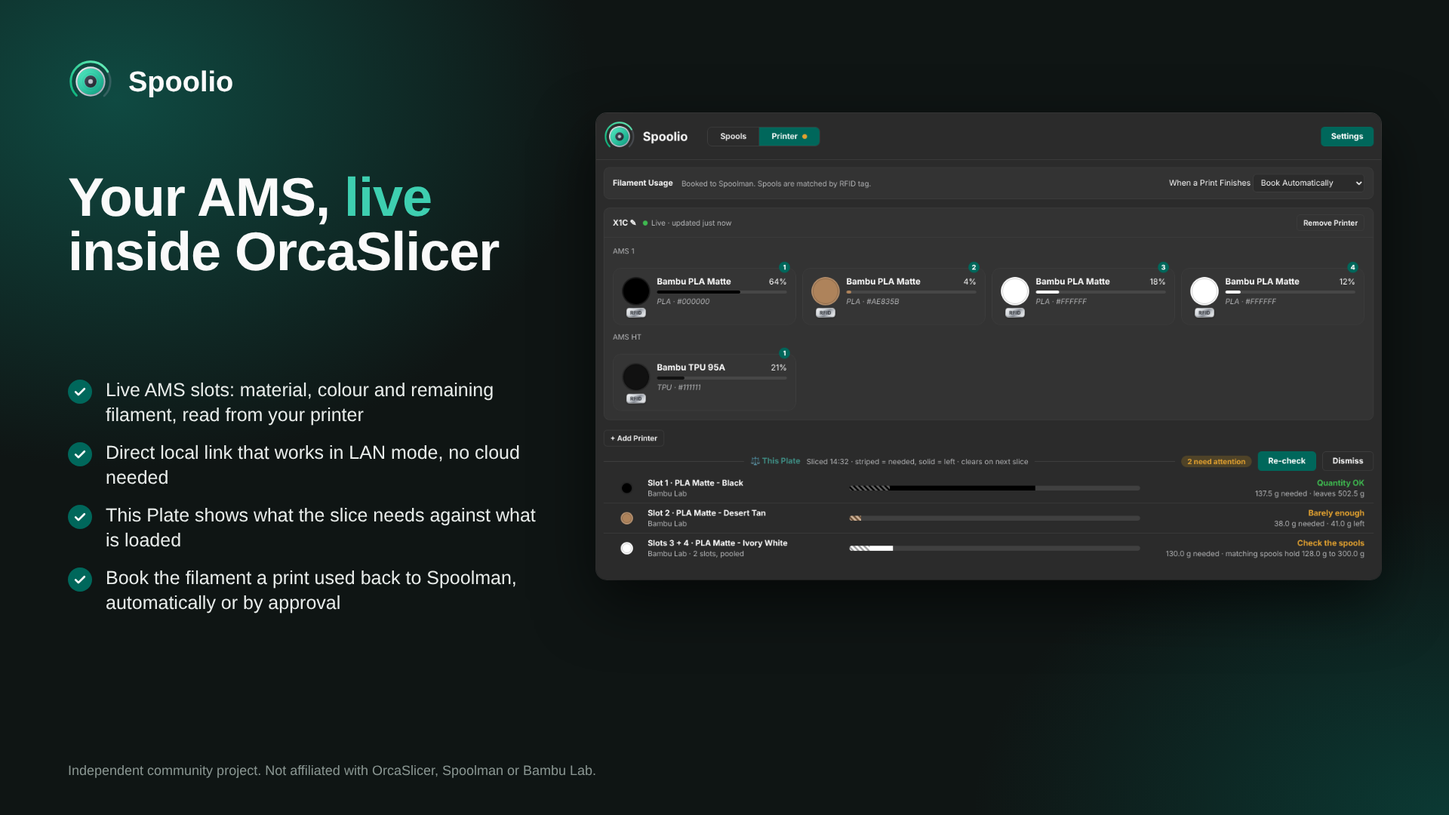
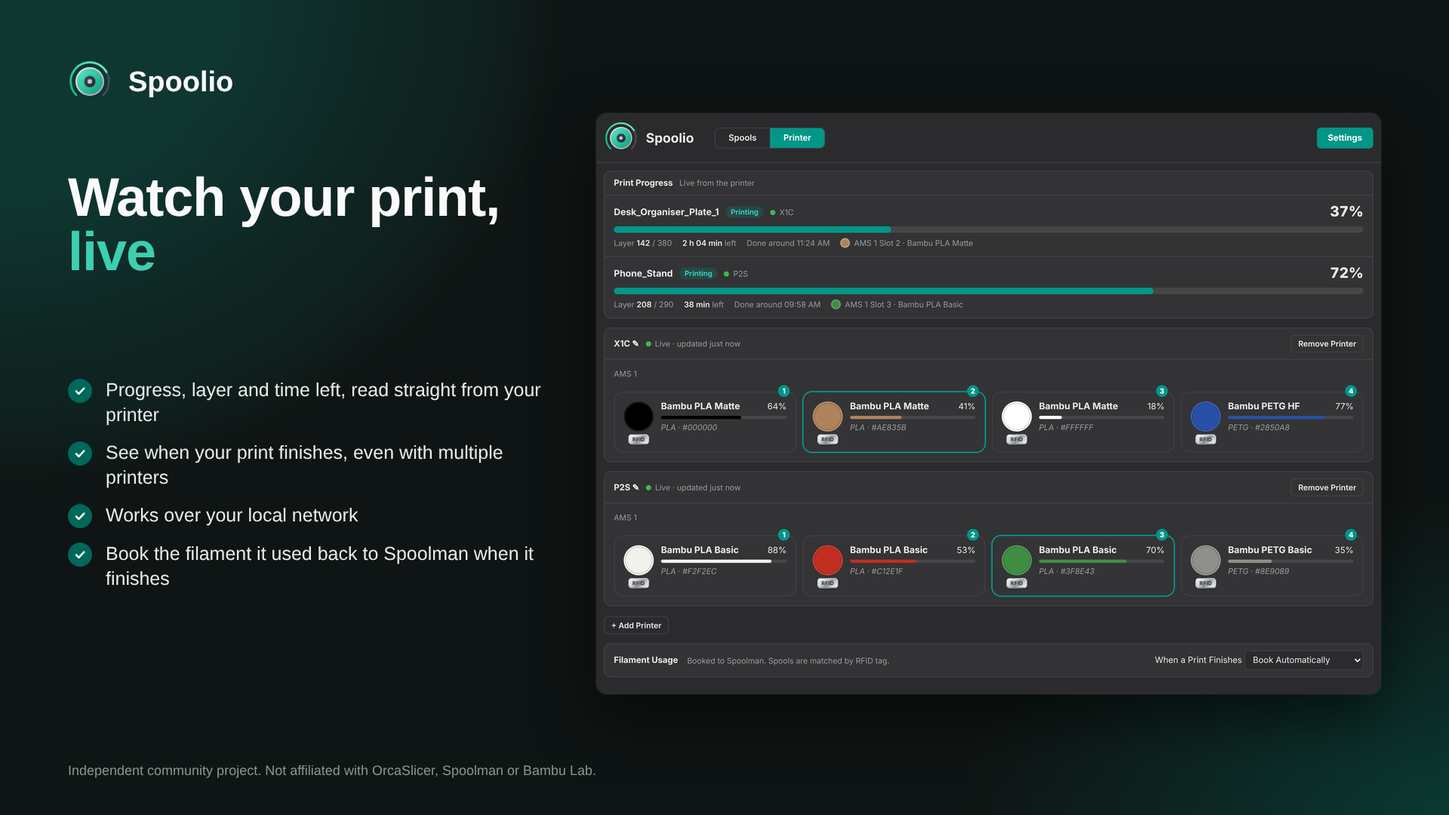
Spoolio v.0.7.0 updates

diff --git a/plugin/spoolio/spoolio_any.py b/plugin/spoolio/spoolio_any.py
@@ -6,7 +6,7 @@
 # name = "Spoolio"
 # description = "A Bambu Lab inspired inventory management overview for OrcaSlicer"
 # author = "Dan J Moore"
-# version = "0.6.0"
+# version = "0.7.0"
 # ///
 
 import base64
@@ -44,7 +44,7 @@ except (ImportError, AttributeError):
 _SLICING = hasattr(getattr(orca, "slicing", None), "SlicingPipelineCapabilityBase")
 
 PLUGIN_NAME = "Spoolio"
-PLUGIN_VERSION = "0.6.0"
+PLUGIN_VERSION = "0.7.0"
 # Stamped per operating system by scripts/build.py.
 BUILD_TARGET = "any"
 

diff --git a/CHANGELOG.md b/CHANGELOG.md
@@ -1,21 +1,35 @@
 # Changelog
+## [0.7.0] - 2026-10-16
+
+The Printer tab now includes print progress for each linked printer. The Settings page has been tidied up and follows the card theme throughout.  A new section for the Printer tab has been added.
+
+### Added
+- Print progress. This uses the connected printer(s) own MQTT messaging to draw a live progress bar. This is particularly useful for multiple printers that are connected on the same LAN; and doesn't require an equal number of OrcaSlicer instances for each sliced print to monitor the progress via the Device page.
+
+- Configure Printer in Settings. If you don't have multiple printers then the print progress can be turned off if you wish. The print progress card can be further customised to show estimated finish time, slot in use and whether to show the printer if it's in an idle state.
+
+### Changed
+- The order of the Print tab has been chaned.  Print Proress is now shown first, then your AMS system, followed by "This Plate". The filament usage booking now sits underneath this, as it made more logical sense to be here as material is booked after the plate has finished printing.
+
+- Settings page is now laid out in a card style format.  Each section is card with either a live preview or a guide. For narrow window device e.g. laptop, the two halves of each card stack.  Some notes have been removed, as some settings are quite self explantatory e.g. weights as grams or percentage of spools original weight.
+
 ## [0.6.0] - 2026-10-12
 
 Filament usage booking now reads what was actually printed straight from the printer, rather than relying on your sliced G-code, and it no longer loses a print if the connection drops or OrcaSlicer is closed part way through. Multi-colour filaments also finally show their colours on the spool cards.
 
 ### Added
-
 - Usage booking from the printer's job file (Spoolman source, with a Live Link). When a print starts, Spoolio downloads the job's `.3mf` from the printer over your local network (FTPS) and books the grams it lists for each slot to the matching spool in Spoolman. This means the amounts match the plate that is actually printing, even if it was sliced or sent from somewhere else. If the job file can't be read, Spoolio falls back to the grams from your sliced G-code as before.
+
 - Booking survives link drops and restarts. The print Spoolio is tracking is saved on your computer, so if the Live Link drops or OrcaSlicer is restarted mid print, Spoolio picks it back up when it reconnects.
+
 - Late cards for missed prints. If a print finishes while Spoolio wasn't connected, it shows a card for that print with a note to check the grams before booking. Late cards are never booked automatically, even with *Book Automatically* on.
 
 ### Changed
-
 - Multi-colour spool swatches. Spools with more than one colour in Spoolman used to show a grey swatch. The circle now shows the colours, in segments for coaxial filaments and as a smooth gradient for longitudinal ones, on both the spool cards and the `+ Assign Spool` list. The ring and progress bar use one solid colour (the first colour of the spool) so they stay easy to read.
 
 ### Known limitations
-
 - Job-file booking needs the printer on the same network, the same as Live Link. If Spoolio can't reach it or find the job file, the grams from your sliced G-code are used instead.
+
 - The filament check and This Plate panel still match spools on their main colour only, so multi-colour spools may not match a slicer slot automatically.
 
 ## [0.5.0] - 2026-10-09
@@ -23,86 +37,105 @@ Filament usage booking now reads what was actually printed straight from the pri
 I'm excited to say that Spoolio can now read your spools from Bambu Cloud as well as Spoolman! (because variety is the spice of life) and it can also book the filament a print used back to Spoolman for a truly local live filament tracking solution.  This sadly cannot be done via Bambu Cloud due to what their API exposes, see more on the limitations section below.
 
 ### Added
+- Bambu Cloud as a source. Choose `Spoolman` or `Bambu Cloud` under Choose Your Source in Settings. With Bambu Cloud, your Bambu filament library shows on the same spool cards, and the filament check and `This Plate` panel use it too.
 
-- **Bambu Cloud as a source.** Choose `Spoolman` or `Bambu Cloud` under Choose Your Source in Settings. With Bambu Cloud, your Bambu filament library shows on the same spool cards, and the filament check and This Plate panel use it too.
-- **Sign in to Bambu Cloud inside Spoolio**, with no other plugin needed. Enter your Bambu email and password and pick Global or China. Bambu 2FA will be required (emailed, or an authenticator app) **<ins>Spoolio never stores your password</ins>**, only the sign-in token that Bambu returns, which can be removed with a quick Sign out. The Test Connection checks that you are online and that Bambu still accepts your sign-in. This uses Bambu's unofficial cloud service, so it is marked experimental.
-- **A Printer tab** beside Spools, with a card for each of your printers. The This Plate panel now sits underneath, and the tab shows an amber dot when the plate needs attention.
-- **Set up your printers by hand or automatically** Add a printer, then add an AMS (4 slots), an AMS HT (1 slot) and an external spool. Several AMS units are numbered AMS 1, AMS 2 and so on. Every slot starts empty, and `+ Assign Spool` opens a searchable list of your spools. A spool can only sit in one slot, so once it is assigned it is hidden from the list, while two spools of the same filament are listed separately. The cards are the same as on the Spools tab, with a ✕ to clear a slot. This is stored in Spoolio only and works with either source, it's _only_ a representative view.
-- **Live AMS.** The Printer tab can read what a printer reports for its AMS, AMS HT and external spool (material, colour and remaining percentage). Press **Live Link** on a printer and enter it's IP address, serial number (optional) and access code to read it directly over your local network, which works in LAN mode with either Bambu or Spoolman. The access code is kept in its own private file on your computer. Spoolio only connects while the Printer tab is open, or while usage booking is on.
-- **Bambu Cloud slots.** With a Bambu Cloud connection, the spools within your library linked to a printer slot also show on the Printer tab. This can lag behind what is physically loaded, so the manual setup option is there to correct it.
-- **Book filament usage to Spoolman (Spoolman source, with a Live Link).** When a print finishes, Spoolio works out which spool was in each slot from its RFID tag (matched against the `tag` extra field on the spool in Spoolman, the long serial Bambu uses for RFID detection if using Bambu filament, falling back to the spool's RFID tags and other extra fields) and books the grams from the sliced G-code to that spool in Spoolman. Choose *Ask Me Before Booking*, *Book Automatically* or *Do Not Track* under *When a Print Finishes*. Slots whose spool can't be identified are always booked by hand, and so are prints that were cancelled, where the grams are estimated from the progress. Nothing is booked twice.
-- **Tabs pinned to the header.** Due to the changes, I've introduced two new tabs, aptly titled Spools and Printer.
+- Sign in to Bambu Cloud inside Spoolio, with no other plugin needed. Enter your Bambu email and password and pick Global or China. Bambu 2FA will be required (emailed, or an authenticator app) ***<ins>Spoolio never stores your password</ins>***, only the sign-in token that Bambu returns, which can be removed with a quick Sign out. The Test Connection checks that you are online and that Bambu still accepts your sign-in. This uses Bambu's unofficial cloud service, so it is marked experimental.
+
+- A Printer tab beside Spools, with a card for each of your printers. The `This Plate` panel now sits underneath, and the tab shows an amber dot when the plate needs attention.
+
+- Set up your printers by hand or automatically. Add a printer, then add an AMS (4 slots), an AMS HT (1 slot) and an external spool. Several AMS units are numbered AMS 1, AMS 2 and so on. Every slot starts empty, and `+ Assign Spool` opens a searchable list of your spools. A spool can only sit in one slot, so once it is assigned it is hidden from the list, while two spools of the same filament are listed separately. The cards are the same as on the Spools tab, with a ✕ to clear a slot. This is stored in Spoolio only and works with either source, it's _only_ a representative view.
+
+- Live AMS. The Printer tab can read what a printer reports for its connected AMS and external spool (material, colour and remaining percentage). Press **Live Link** on a printer and enter it's IP address, serial number (optional) and access code to read it directly over your local network, which works in LAN mode with either Bambu or Spoolman. The access code is kept in its own private file on your computer. Spoolio only connects while the Printer tab is open, or while usage booking is on.
+    - With a Bambu Cloud connection, the spools within your library linked to a printer slot also show on the Printer tab. This can lag behind what is physically loaded, so the manual setup option is there to correct it.
+
+- Book filament usage to Spoolman (Spoolman source, with a Live Link). When a print finishes, Spoolio works out which spool was in each slot from its RFID tag (matched against the `tag` extra field on the spool in Spoolman, the long serial Bambu uses for RFID detection if using Bambu filament, falling back to the spool's RFID tags and other extra fields) and books the grams from the sliced G-code to that spool in Spoolman. Choose *Ask Me Before Booking*, *Book Automatically* or *Do Not Track* under *When a Print Finishes*. Slots whose spool can't be identified are always booked by hand, and so are prints that were cancelled, where the grams are estimated from the progress. Nothing is booked twice.
+
+Due to the changes, I've introduced two new tabs, aptly titled Spools and Printer.
 
 ### Known limitations
+- ***Bambu Cloud is unofficial and experimental.*** Bambu can change it without notice, and your sign-in token expires after 90 days, so you will be asked to asked to sign in again after this time.
+    - ***Bambu Cloud is read only.*** Spoolio can only read your Bambu filament library and never write to it.
+    - ***No live AMS through Bambu Cloud.*** A printer in LAN mode isn't bound to your account, so the cloud doesn't list it. Use Live Link for live slots.
+    - <ins>Bambu Cloud slot view can lag behind what is physically loaded, so treat it as representative only.</ins>
 
-- **Bambu Cloud is read only.** Spoolio can only read your Bambu filament library and never write to it.
-- **Filament usage booking is Spoolman only.** With Bambu Cloud as the source the booking panel is off, because there is no way to write used weight back to the Bambu library. Whether Bambu tracks remaining weight itself for RFID spools is unverified if connected via the Cloud after a print - I'm assuming not if you have no printer connected to your Bambu account via the cloud.
-- **No live AMS through Bambu Cloud.** A printer in LAN mode isn't bound to your account, so the cloud doesn't list it. Use Live Link for live slots.
-- **Bambu Cloud slot view can lag** behind what is physically loaded, so treat it as representative only.
-- **Bambu Cloud is unofficial and experimental.** Bambu can change it without notice, and your sign-in token expires after 90 days, so you will be asked to asked to sign in again after this time.
+- ***Filament usage booking is Spoolman only***. With Bambu Cloud as the source the booking panel is off, because there is no way to write used weight back to the Bambu library. Whether Bambu tracks remaining weight itself for RFID spools is unverified if connected via the Cloud after a print - I'm assuming not if you have no printer connected to your Bambu account via the cloud.
+
 - **Live Link** needs the printer on the same network with LAN mode on, and only connects while the Printer tab is open or usage booking is on.
+
 - **Booking assumes slicer slot order** follows the printer's slots (AMS 1 slots 1 to 4, then the next AMS). Slicer weights are estimates and cancelled prints are estimated from progress, so booked amounts can differ slightly.
 
 ### Changed
+- RFID badge on spool cards now reads the spool's `tag` extra field when present, failing back to the official Spoolman `tag` field if it cannot reconcile.  Required for the automatic consumption booking via Spoolman.
 
-- **RFID badge** on spool cards now reads the spool's `tag` extra field when present, failing back to the official `tag` field if it cannot reconcile.  Required for the automatic consumption booking via Spoolman.
-- **Settings:** the server section now has a `Choose Your Source` with an updated icon.
-- **Messages name your source.** Spool list errors and the filament check say Bambu Cloud or Spoolman depending on what you use, and a missing or expired Bambu sign-in tells you to sign in from Settings.
+- Settings: the server section now has a `Choose Your Source` with an updated icon.
+
+- Spool list error messages and the filament check say Bambu Cloud or Spoolman depending on what you use, and a missing or expired Bambu sign-in tells you to sign in from Settings.
 
 ## [0.4.0] - 2026-10-08
 
 ### Added
+- `This Plate` panel on the spool list, shown after each slice (when filament check notifications are on). Each filament the plate uses gets a row with its colour, a progress bar showing what the plate needs against what the spool has left, and a result: Quantity OK, Barely enough, Not enough, Check the spool(s) or Not checked. Re-check runs it again against fresh Spoolman data, Dismiss hides it, and it clears itself on the next slice. 
+    - `On this plate chip` on the matching spool cards, showing which slot or slots use that spool.
+    - `Sort by: On this plate`, which becomes available while the panel is showing.
 
-- **This plate panel** on the spool list, shown after each slice (when filament check notifications are on). Each filament the plate uses gets a row with its colour, a progress bar showing what the plate needs against what the spool has left, and a result: Quantity OK, Barely enough, Not enough, Check the spool(s) or Not checked. Re-check runs it again against fresh Spoolman data, Dismiss hides it, and it clears itself on the next slice. A divider separates it from the rest of your spools.
-- **On this plate chip** on the matching spool cards, showing which slot or slots use that spool.
-- **Duplicate marker** on cards where you hold more than one spool of the same filament, e.g. `x2 · 300 g together`.
-- **Sort by On this plate**, which becomes available while the panel is showing.
-- **Spool weight display** setting to show the remaining weight on the spool cards and group rows as grams, a percentage or both (the default), with a live sample card on the Settings page. The This plate panel always uses grams.
-- **Low-stock weight colours:** below your low-stock threshold the remaining weight turns amber, shading to red as the spool runs out (fully red at 20% of the threshold, so at 10 g with a 50 g threshold).
-- **Show cart button** setting on the Settings page for the reorder cart.
+- Duplicate marker on cards where you hold more than one spool of the same filament, e.g. `x2 · 300 g together`.
+
+- Spool weight display setting to show the remaining weight on the spool cards and group rows as grams, a percentage or both (the default), with a live sample card on the Settings page. The `This Plate` panel always uses grams.
+
+- Low-stock weight colours: below your low-stock threshold the remaining weight turns amber, shading to red as the spool runs out (fully red at 20% of the threshold, so at 10 g with a 50 g threshold for example).
+
+- Show cart button setting on the Settings page for the reorder cart.
 
 ### Changed
+- The reorder cart button is now optional and off by default, because the weight colour now flags low stock. Tick `Show a cart button for reordering low-stock spools` in Settings to bring it back.
 
-- **The reorder cart button is now optional and off by default**, because the weight colour now flags low stock. Tick `Show a cart button for reordering low-stock spools` in Settings to bring it back.
-- **Filters, sort and grouping are collapsible** behind a Filters button, so the list looks cleaner.
-- **Matching buttons:** Re-check, Dismiss and Filters are now the same size as the Settings button.
-- **Settings page rearranged:** Getting Started and Filament Reorder Preview now sit on the left, with the Spoolman server and reorder settings beside them. Spool Weights is a new section, and the tick boxes are all at the top of their sections.
+- Filters, sort and grouping are collapsible behind a Filters button, so the list looks cleaner.
+
+- Settings page rearranged: Getting Started and Filament Reorder Preview now sit on the left, with the Spoolman server and reorder settings beside them. Spool Weights is a new section.
 
 ### Behind the scenes code clean up
-
 - Shortened variable and function names across the plugin and tidied the comments and docstrings, with no change in behaviour.
+
 - The filament check and This plate panel share one code path, so the notification and the panel always agree.
 
 ## [0.3.0] - 2026-10-06
 
 ### Added
+- The Settings page now as filament check notification and a safety margin. Currently the safety margin defaults at 10% e.g. 20g of filament required, spool has 22g so is within the 10% but it can be adjusted to user preference, see updated README for a full explanation.
 
-- **Filament check settings** The Settings page now as filament check notification and a safety margin. Currently the safety margin defaults at 10% e.g. 20g of filament required, spool has 22g so is within the 10% but it can be adjusted to user preference, see updated README for a full explanation.
-- **Filament check at slicing** after each slice, Spoolio compares the filament the plate needs with what is left on your matching spools and shows a notification in OrcaSlicer. A short-lived one when there's enough, and a persistent message that stays until you dismiss it when there may not be enough filament loaded. Slots holding the same filament are counted together. Switch on Spoolio Filament Check in your process settings, under `Others > Slicing Pipeline Plugin`, to use it.
+- Filament check at slicing, Spoolio compares the filament the plate needs with what is left on your matching spools and shows a notification in OrcaSlicer. A short-lived one when there's enough, and a persistent message that stays until you dismiss it when there may not be enough filament loaded. Slots holding the same filament are counted together. Switch on Spoolio Filament Check in your process settings, under `Others > Slicing Pipeline Plugin`, to use it.
 
 ## [0.2.0] - 2026-10-01
 
 Spoolio now has its own tab in OrcaSlicer's top bar, and is built separately for all OS.
 
 ### Added
-- **A Spoolio tab** Spoolio has migrated to OrcaSlicer's Pages window from the previous floating window method, and still falls back to the floating window on builds without Pages support.
-- **Settings inside the tab** as a second page instead of a separate window. Save & Close or Cancel returns to the spool list, and Settings still opens first on first run.
-- **Filament Reorder Preview** on the Settings page, showing which spools would get a reorder cart at the low-stock level you type in.
-- **A Diagnostics section** with the plugin version, a Check for updates link and the path of the new log file (`spoolio.log`) to attach to bug reports, plus a **feedback button** on the Settings page.
-- **A fixed header** that stays in place when you switch between the spool list and Settings.
-- **Builds for every platform:** Windows, Linux and macOS, each for x86_64 and arm64, published as one file per system (`spoolio_win_x86_64.py`, `spoolio_macosx_arm64.py` and so on).
+- Spoolio has migrated to OrcaSlicer's Pages window from the previous floating window method, and still falls back to the floating window on builds without Pages support.
+
+- `Settings` inside the tab as a second page instead of a separate window. `Save & Close` or `Cancel` returns to the spool list, and Settings still opens first on first run.
+
+- Filament Reorder Preview on the Settings page, showing which spools would get a reorder cart at the low-stock level you type in.
+
+- A Diagnostics section with the plugin version, a Check for updates link and the path of the new log file (`spoolio.log`) to attach to bug reports, plus a feedback button on the Settings page.
+
+- Builds for every platform: Windows, Linux and macOS, each for x86_64 and arm64, published as one file per system (`spoolio_win_x86_64.py`, `spoolio_macosx_arm64.py` and so on).
 
 ### Changed
-- **Two-column Settings page**, with each setting beside its guide.
-- **A tidier Settings look.**
-- **Matching headers** on the spool list and Settings, with the same logo size and title colour.
-- **Larger remaining weight** on the spool cards.
+- Two-column Settings page, with each setting beside its guide.
+
+- A tidier Settings look.
+
+- Larger remaining weight on the spool cards.
+
+### Fixes
 - Network requests (spool refresh, connection test and update check) now run in the background, so OrcaSlicer no longer freezes while waiting on Spoolman.
+
 - If OrcaSlicer's data folder can't be found, settings and the log go to the operating system's standard config location instead of the plugin folder.
+
 - The reorder cart tells you when no web browser could be opened and shows the address to open yourself.
 
-### Fixed
 - Swiping left or right on a trackpad no longer takes you to a blank page.
+
 - Buttons and step titles on the Settings page now use the accent colour consistently.
 
 ## [0.1.0]

diff --git a/README.md b/README.md
@@ -12,15 +12,16 @@ Spoolio _(Spool Inventory Overview)_ is a Bambu Lab inspired filament inventory 
 
 ## Key Features
 - **Spool cards:** Showing colour, vendor, remaining weight, a progress bar in the spool's own colour and material / colour hex and diameter details.
-- **Two spool sources:** Your self-hosted Spoolman server, or your Bambu Cloud account.
-- **RFID:** Reads from the spool's `tag` extra field when present, otherwise from its official RFID tags (requires Spoolman v.0.27.0 or newer).
-- **Live Link:** Connect directly to a printer on your local network and see what the printer reports for each AMS slot, matched by RFID.
+- **Two sources:** Your self-hosted Spoolman server, or your Bambu Cloud account.
+- **RFID:** Reads from the spool's `tag` extra field when present, or Spoolman's own `tag` field (requires Spoolman v.0.27.0 or newer).
 - **Printer tab:** A card per printer showing what is loaded in each AMS and external spool. Custom build your own by adding printers and AMS units and assigning your spools to the slots, with either spool source.
-- **This Plate panel:** Shown after each slice on the Printer tab, with a progress bar for the estimated filament consumption, an **On This Plate** chip on the matching cards, and a marker where you hold several spools of one filament.
+- **Live Link:** Connect directly to printer(s) on your local network and see what the printer reports for each AMS slot, matched by RFID.
 - **Filament Consumption booking:** With Spoolman, after a print finishes Spoolio can book the filament consumed directly from the `.3mf` to the spool, matched by its RFID tag. Book it yourself or let Spoolio do it.
+
+## Other Features
 - **Filter, sort and group:** By material, manufacturer or location.
-- **Low-stock warning:** Spools under the user defined threshold have their remaining weight turn amber, shading to red as the spool runs out.
-- **Optional reorder button:** Switch on the cart icon in Settings and low-stock spools get a button that opens a web search for reordering (either by a user input Spoolman article no. or it defaults to the filament name).
+- **Low-stock warning:** Spools under the user defined threshold have their remaining weight colour graded as they get closer to empty.
+- **Reorder button:** Switch on the cart icon in `Settings` and low-stock spools get a button that opens a web search for reordering (either by a user input Spoolman article no. or it defaults to the filament name).
 - **Setup your way:** Customise and configure Spoolio how you want.  How cards look, what units you prefer, thresholds, printers and more.
 - Matches OrcaSlicer's **light and dark theming**.
 - Built for **Windows, macOS and Linux** (x86_64 and arm64).
@@ -79,7 +80,7 @@ OrcaSlicer asks before a plugin does anything sensitive. Expect a prompt the fir
 
 > [!TIP]
 > ### Printer Tab
-> The **Printer** tab sits beside **Spools** and shows a card for each of your printers. Click ***+ Add Printer***, then add an AMS (4 slots), an AMS HT (1 slot) or an external spool, you can create it to match your setup, and use ***+ Assign Spool*** to choose which of your spools is in each slot. This is stored in Spoolio only and nothing is changed in Spoolman or Bambu Cloud. With Bambu Cloud, spools your library has linked to a slot also show, but that can lag behind what is physically loaded.
+> The **Printer** tab sits beside **Spools** and shows a card for each of your printers. Click ***+ Add Printer***, then add an AMS or an external spool, you can create it to match your setup, and use ***+ Assign Spool*** to choose which of your spools is in each slot. This is stored in Spoolio only and nothing is changed in Spoolman or Bambu Cloud. With Bambu Cloud, spools your library has linked to a slot also show, but that can lag behind what is physically loaded.
 >
 > ### Live Link
 > To read a printer directly, press ***Live Link*** on its card and enter its IP address, its serial number (optional, but helps if you have several printers) and its access code, all found in the printer's network settings with LAN mode on. The slots then show what the printer reports and how long ago it was updated. Spoolio keeps the access code in a private file on your computer and only reads from the printer. Removing a printer also removes its Live Link.
@@ -92,18 +93,17 @@ OrcaSlicer asks before a plugin does anything sensitive. Expect a prompt the fir
 
 > [!IMPORTANT]
 > ### Bambu Cloud Limitations
+> - **Unofficial and experimental.** This uses Bambu's unofficial cloud service, which Bambu can change without notice. If it stops working, sign out and back in, if that still fails then please report it.
+  > - **Sign-in expires.** Spoolio keeps only the sign-in token, not your password, so when Bambu expires the token you'll be asked to sign in again from Settings.
 > - **Read only.** Spoolio can read your Bambu filament library but cannot write to it, so nothing you do in Spoolio changes your Bambu spools.
 > - **No usage booking.** Filament usage booking is only available with Spoolman. Spoolio has no way to write used weight back to the Bambu library, and I haven't verified whether Bambu tracks remaining weight itself for RFID spools.
 > - **No live AMS through the cloud.** A printer in LAN mode isn't bound to your account, so Bambu Cloud doesn't list it and sends no AMS data. Use ***Live Link*** (works with either source) for live slots, or assign spools by hand.
 > - **Slot view can lag.** The spools your library has linked to a slot are a representative view only and can differ from what is physically loaded.
-> - **Unofficial and experimental.** This uses Bambu's unofficial cloud service, which Bambu can change without notice. If it stops working, sign out and back in, if that still fails then please report it.
-> - **Sign-in expires.** Spoolio keeps only the sign-in token, not your password, so when Bambu expires the token you'll be asked to sign in again from Settings.
 > - **Printer tab setup is local.** Printers, AMS units and slot assignments you set up are stored in Spoolio on your computer, not in your Bambu account.
 >
 > ### Live Link and Booking Limitations
 > - Live Link needs the printer on the same network with LAN mode on, and only connects while the Printer tab is open or usage booking is on.
 > - Booking assumes the slicer's filament slots follow the order of the printer's slots (AMS 1 slots 1 to 4, then the next AMS, and so on), so check the first few bookings if you use a different mapping.
-> - Slicer weights are estimates, and cancelled prints are estimated from the progress, so booked amounts can differ slightly from what was really used.
 
 > [!TIP]
 > ### Filament Check 
